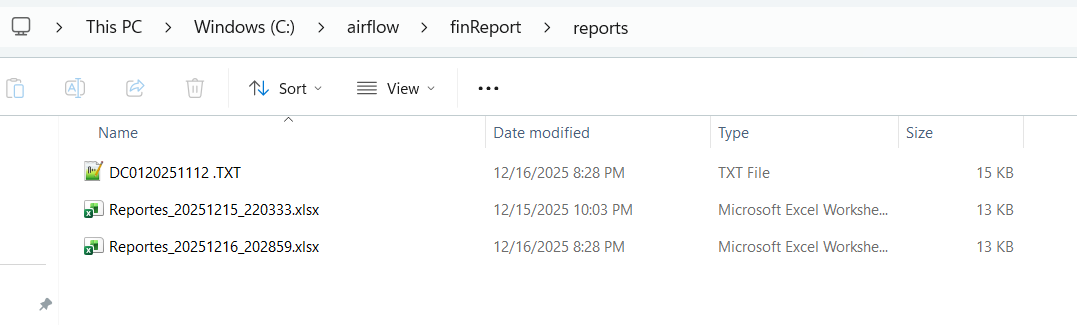
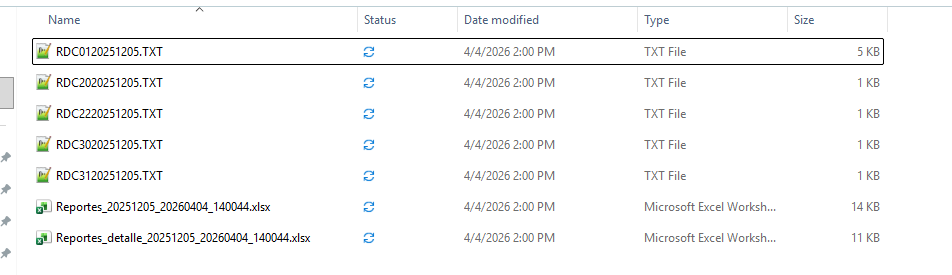
Actualizacion archivos MD e incorporacion de ejemplos para los reportes
Se actualiza los Readme principal y de mantenedores, se actualiza algunas imagenes y se incluye ejemplos de reportes.

diff --git a/README.md b/README.md
@@ -94,6 +94,18 @@ Todo lo que es reporte sale en formato TXT y en excel, los log salen en excel pa
   <img src="imagenes\image-3.png" alt="alt text" width="700">
 </p>
 
+<p>El sistema desde la version 1.1.0, permite procesar interfaces en excel, hay ejemplos en la carpeta analisis del proyecto.
+  
+  Consideraciones si vas a trabajar con interfaces en EXCEL:
+
+1. Extension permitida .xlsx
+2. El nombre de las interfaces en excel es el mismo que se utiliza en TXT, ejemplo A0120251107.xlsx, en donde los 3 primeros caracteres son la codificacion de la interfaz y los otros 8 son la fecha en formato YYYYMMDD
+3. Para configurar que el sistema procese interfaces en excel, deben ir al mantenedor de parametros generales, colocar el valor NO en el cod = 4 y dejar el valor en SI para el cod = 5.
+4. A diferencia de las interfaces en TXT, el proceso considera que las interfaces en excel llevan cabecera, los campos de cabecera son referenciales, pero deben tener las mismas columnas
+5. El sistema siempre toma la primera hoja para procesar los datos
+6. Es mejor manejar los datos en el excel como texto, asi no incurren en problemas de formato, recordar que los datos numericos, el decimal se maneja con punto y no debe llevar comas. Todo esto de como se debe formatear los datos estan en la carpeta de analisis, ver [aqui](https://github.com/Soulcito/finReport/blob/main/Analisis/Interfaces/interfaces.xlsx)
+</p>
+
 ### Ejemplo de logs:<br><br>
 
 <p align="center">

diff --git a/contenedores/airflow/README.md b/contenedores/airflow/README.md
@@ -80,6 +80,12 @@ Estos tres valores, deberian ser cambiados por cada institucion.
   <img src="imagenes\image-3.png" alt="alt text" width="400">
 </p>
 
+<p>
+  Desde la version 1.1.0 se habilito la posibilidad de procesar las interfaces en excel, el codigo 4 esta por defecto en SI, que significa que el proceso toma las interfaces en TXT.
+  El codigo 5 por defecto esta en NO.
+  En caso de querer procesar en excel, el codigo 4 se debe poner en NO y el codigo 5 en SI.
+</p>
+
 **<span style="color:yellow">⚠ ESTE ARCHIVO SI SE PUEDE MODIFICAR </span>**
 
 <br>
